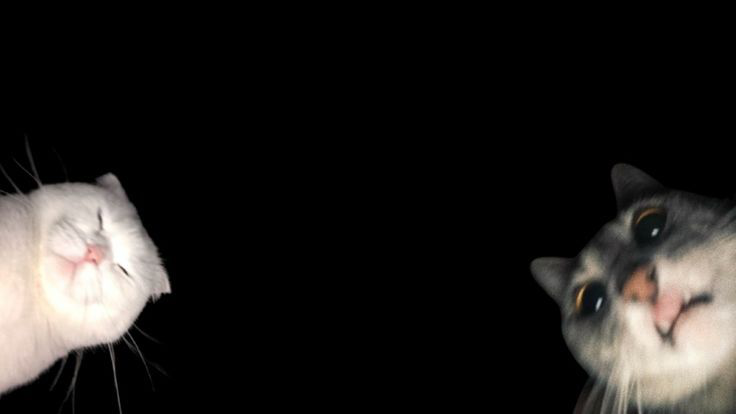
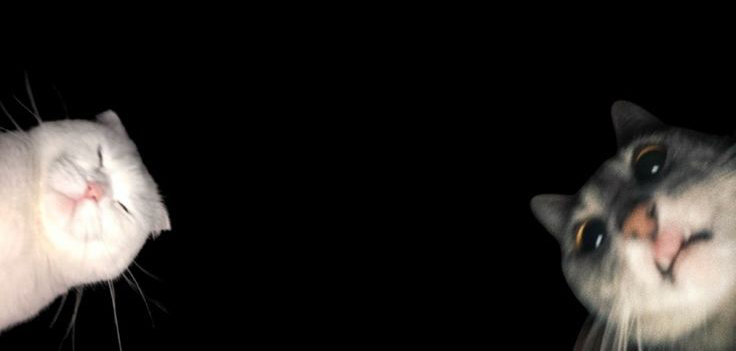
finished backgrounds and updated BLB

Changed region(s): [[0.7188, 0.2849, 1.0, 0.9687], [0.0, 0.2564, 0.25, 0.9687], [0.1562, 0.9117, 0.1875, 0.9402]]

diff --git a/content/blb/inception/index.md b/content/blb/inception/index.md
@@ -1,0 +1,26 @@
+---
+title: "Inception."
+summary: "Just me. Not fancy. Not polished."
+description: "Just me. Not fancy. Not polished."
+
+draft: false
+date: 2024-11-09 # follow the Y/M/D format 
+
+categories: [blb]
+# tags: []
+#series: []
+# series\_order: 
+
+authors:
+  - talha
+
+showReadingTime: false
+showRelatedContent: false
+showPagination: false
+sharingLinks: false
+externalUrl: "https://www.youtube.com/watch?v=cDA2YvWSI_Q"
+---
+
+## Inception.
+
+{{< youtubeLite id="cDA2YvWSI_Q" label="Inception." >}}

diff --git a/content/about/index.md b/content/about/index.md
@@ -24,7 +24,7 @@ excludeFromRelated: true
 
 &nbsp;&nbsp;&nbsp;&nbsp; Hi, I'm Talha.
 
-𓆝 𓆟 𓆞 𓆝 𓆟𓆝 𓆟 𓆞 𓆝 𓆟
+&nbsp;&nbsp;&nbsp;&nbsp; 𓆝 𓆟 𓆞 𓆝 𓆟𓆝 𓆟 𓆞 𓆝 𓆟
 
 &nbsp;&nbsp;&nbsp;&nbsp; I'll keep this section strictly about me and reserve what the nature of this website is for a separate post for the fans.
 

diff --git a/content/blb/_index.md b/content/blb/_index.md
@@ -6,3 +6,5 @@ description: "All language is but a poor translation."
 draft: false
 date: 2025-03-31 # follow the Y/M/D format 
 ---
+
+All language is but a poor translation.
